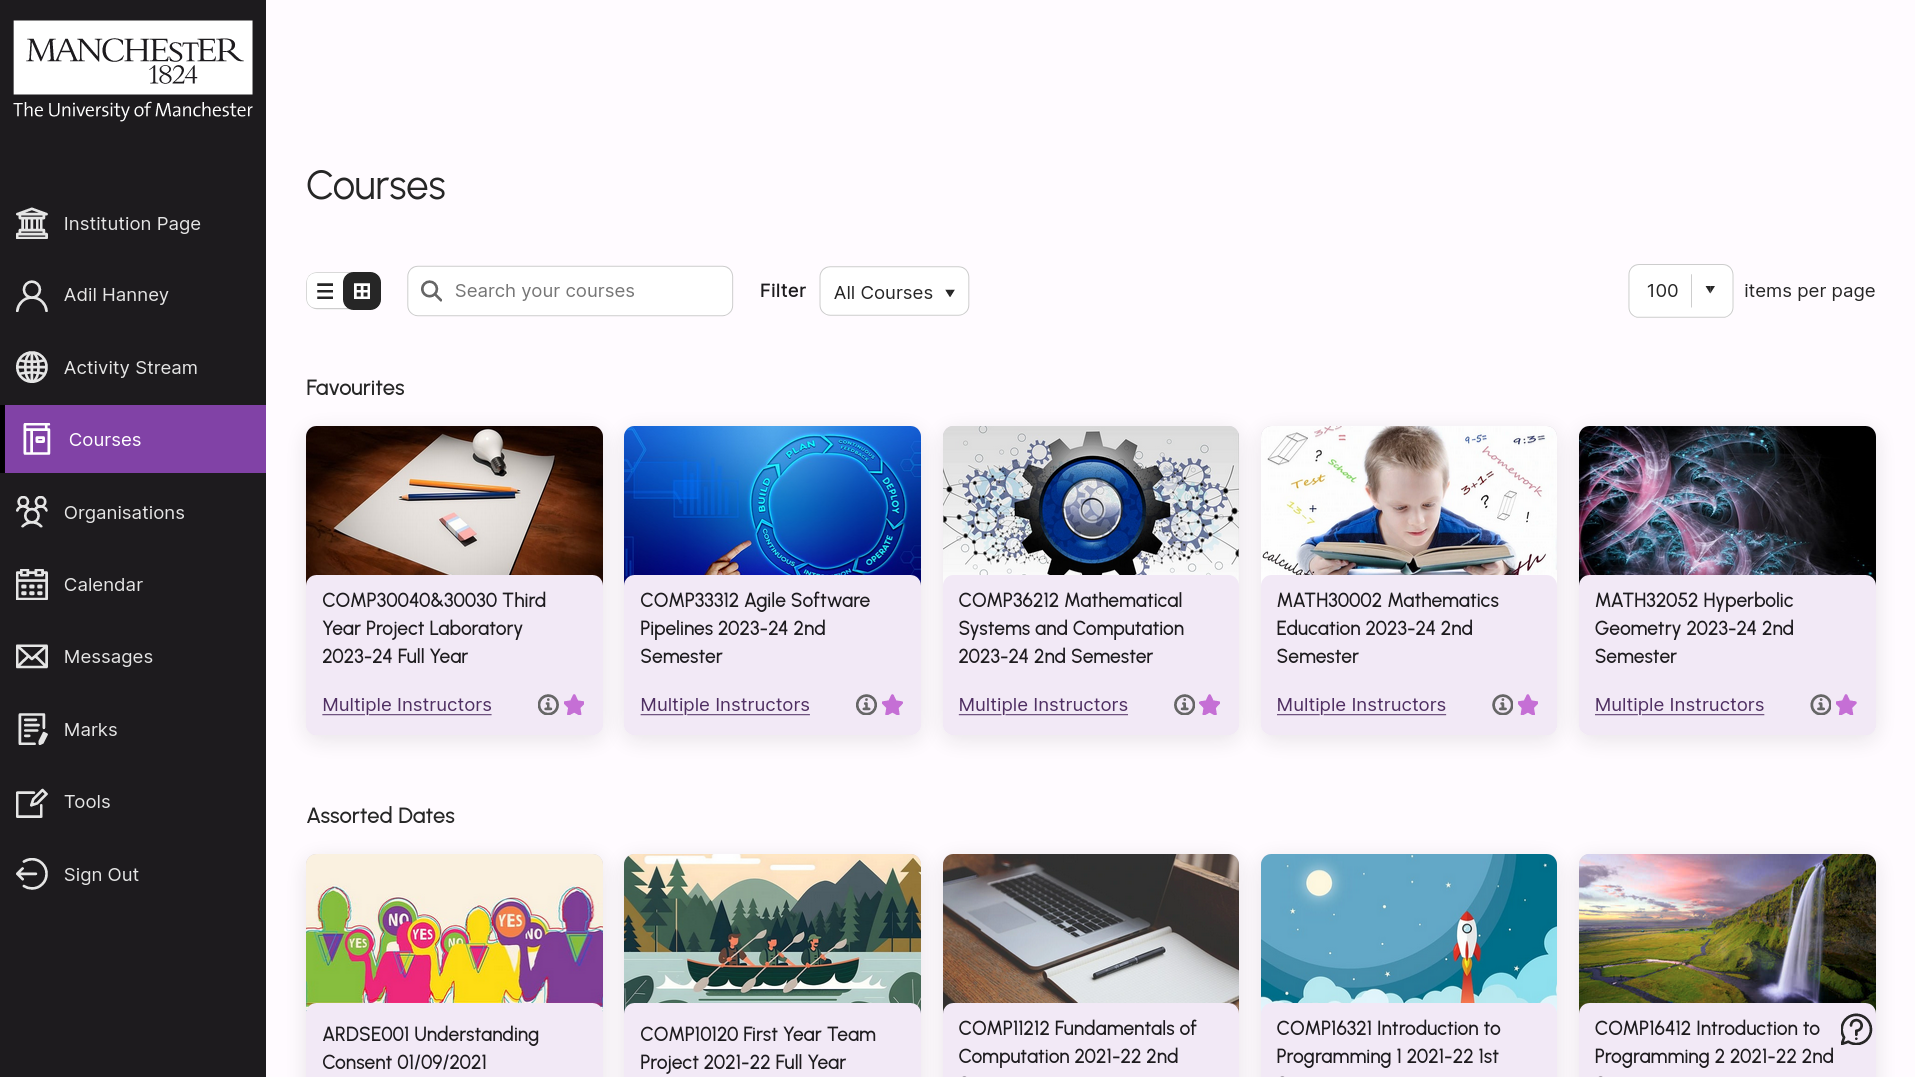
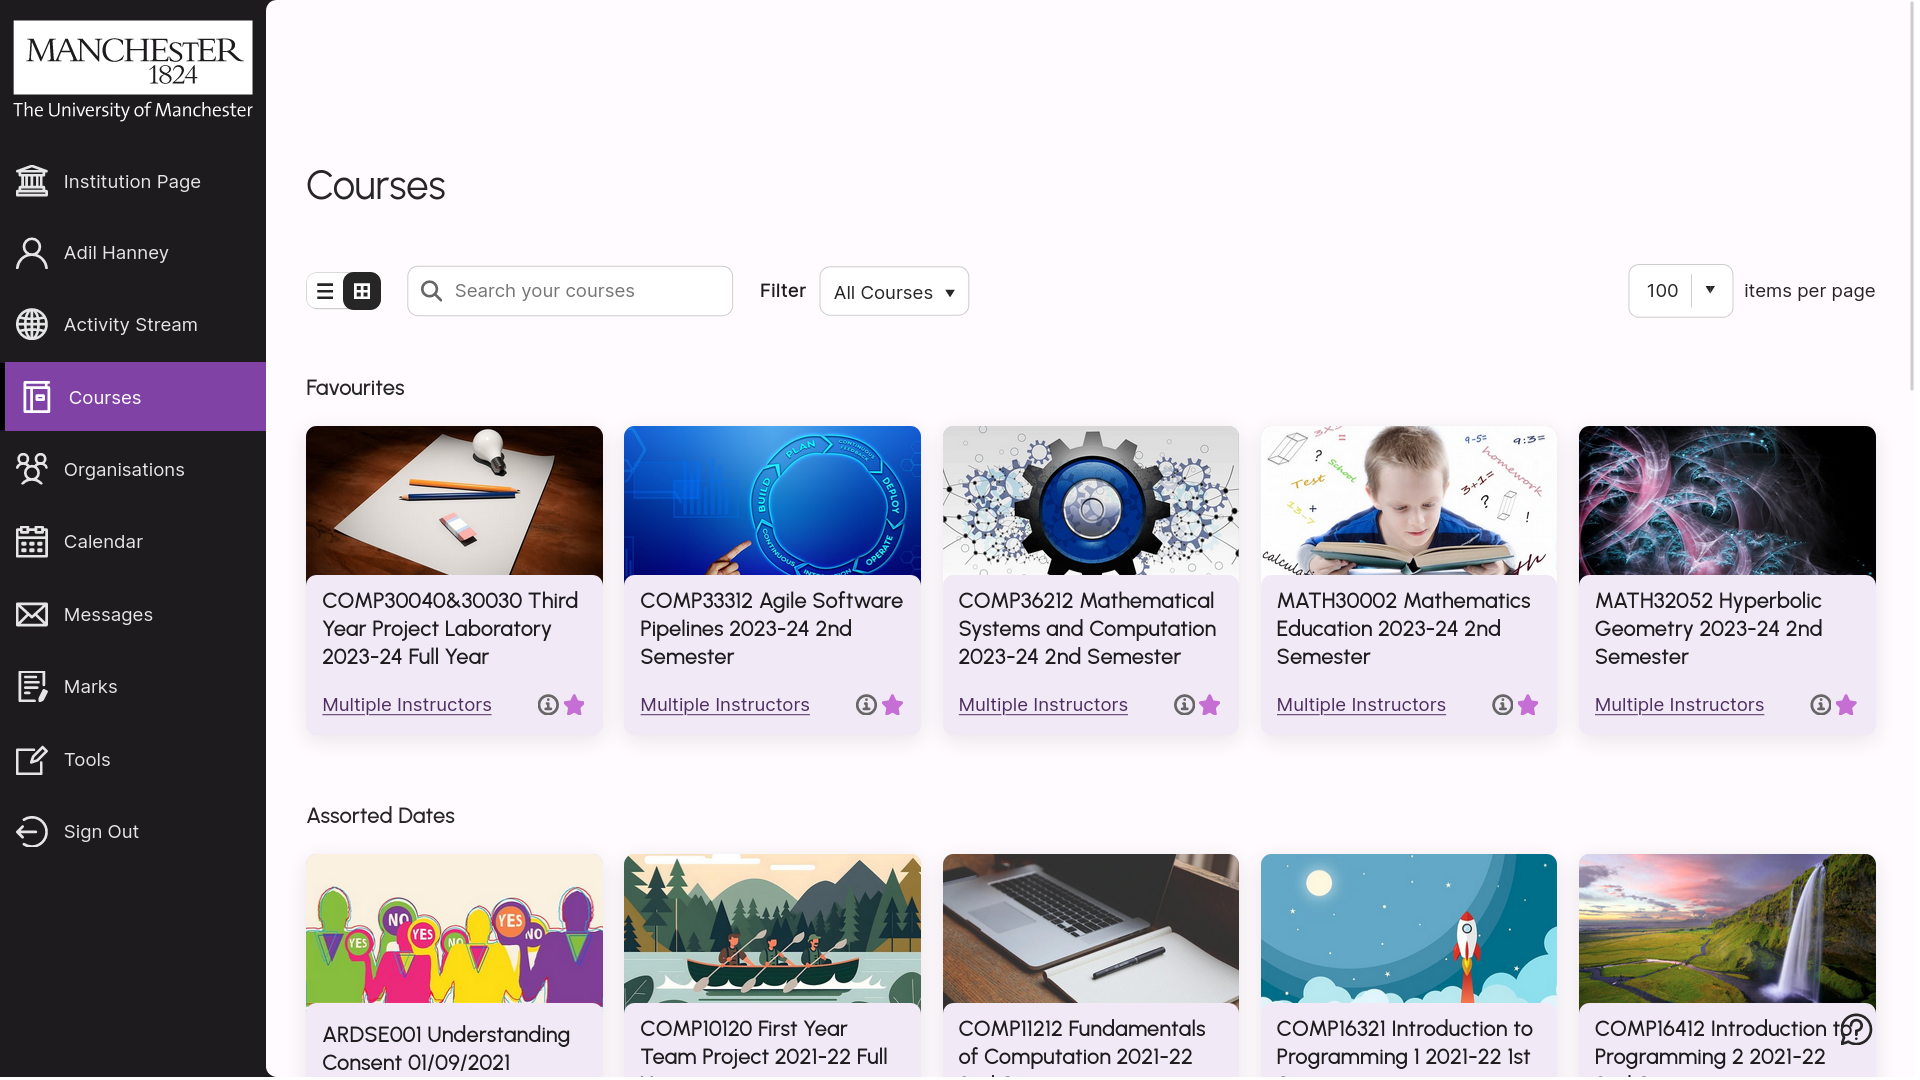
feat: add reverse border radius to sidebar

diff --git a/styles/_online.manchester.ac.uk_ultra.scss b/styles/_online.manchester.ac.uk_ultra.scss
@@ -42,14 +42,27 @@ button.anchor,
 #side-menu {
     background: $header !important;
     color: $on-header;
+    padding-right: 0.5rem;
+    margin-right: -0.5rem;
+    
+    &::before {
+        content: "";
+        position: absolute;
+        top: 0;
+        right: 0;
+        bottom: 0;
+        width: 0.5rem;
+        border-top-left-radius: 0.5rem;
+        border-bottom-left-radius: 0.5rem;
+        background: $background;
+    }
 
     /* logo header */
     header {
-        background: $header !important;
+        background: transparent !important;
         color: $on-header;
         border: none !important;
         box-shadow: none !important;
-        margin-bottom: 2rem;
 
         a {
             display: block;

diff --git a/main.css b/main.css
@@ -139,15 +139,27 @@
   #side-menu {
     background: #1d1b1e !important;
     color: #e8e0e5;
+    padding-right: 0.5rem;
+    margin-right: -0.5rem;
     /* logo header */
     /* footer with links: Privacy, Terms, Accessibility */
   }
+  #side-menu::before {
+    content: "";
+    position: absolute;
+    top: 0;
+    right: 0;
+    bottom: 0;
+    width: 0.5rem;
+    border-top-left-radius: 0.5rem;
+    border-bottom-left-radius: 0.5rem;
+    background: #fffbff;
+  }
   #side-menu header {
-    background: #1d1b1e !important;
+    background: transparent !important;
     color: #e8e0e5;
     border: none !important;
     box-shadow: none !important;
-    margin-bottom: 2rem;
   }
   #side-menu header a {
     display: block;
